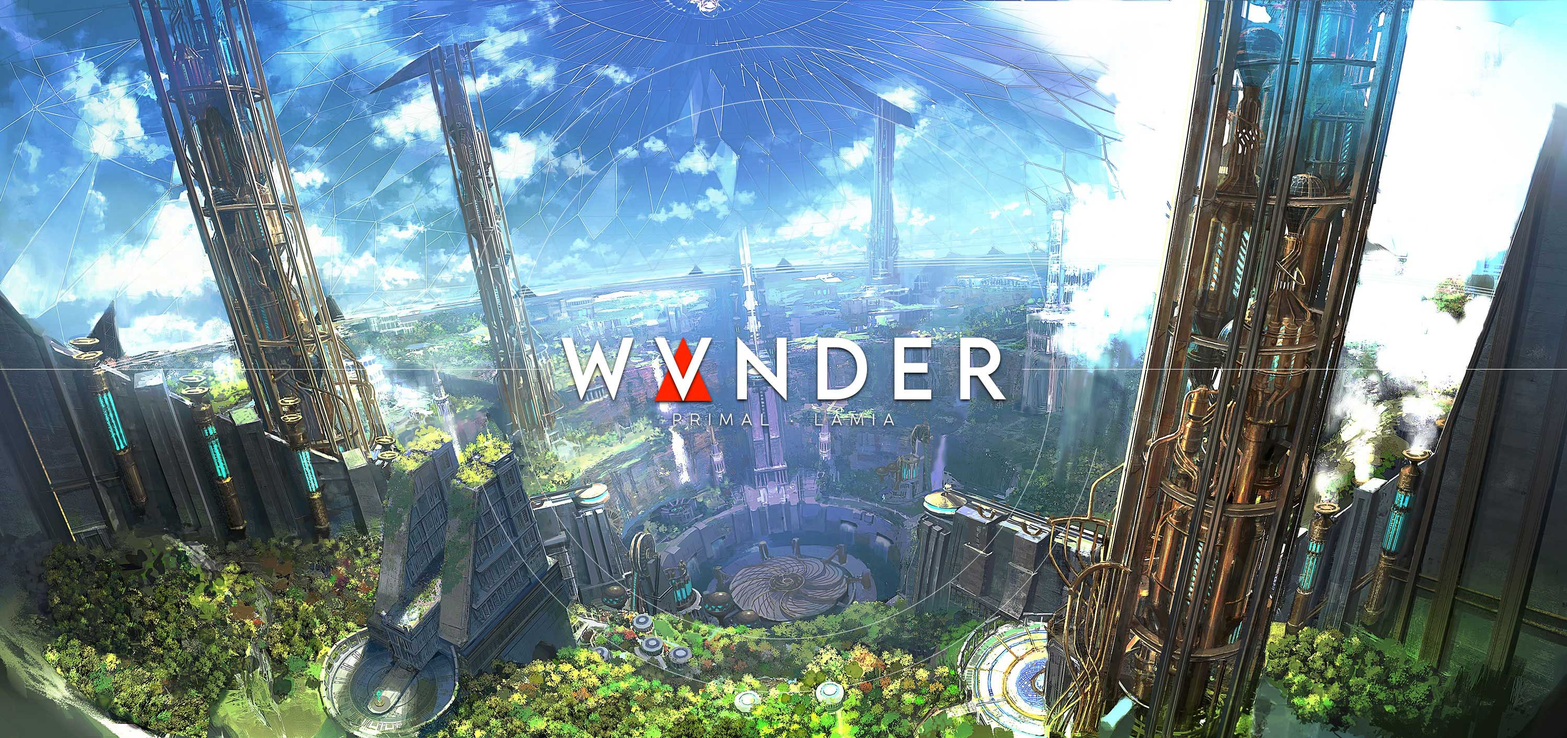
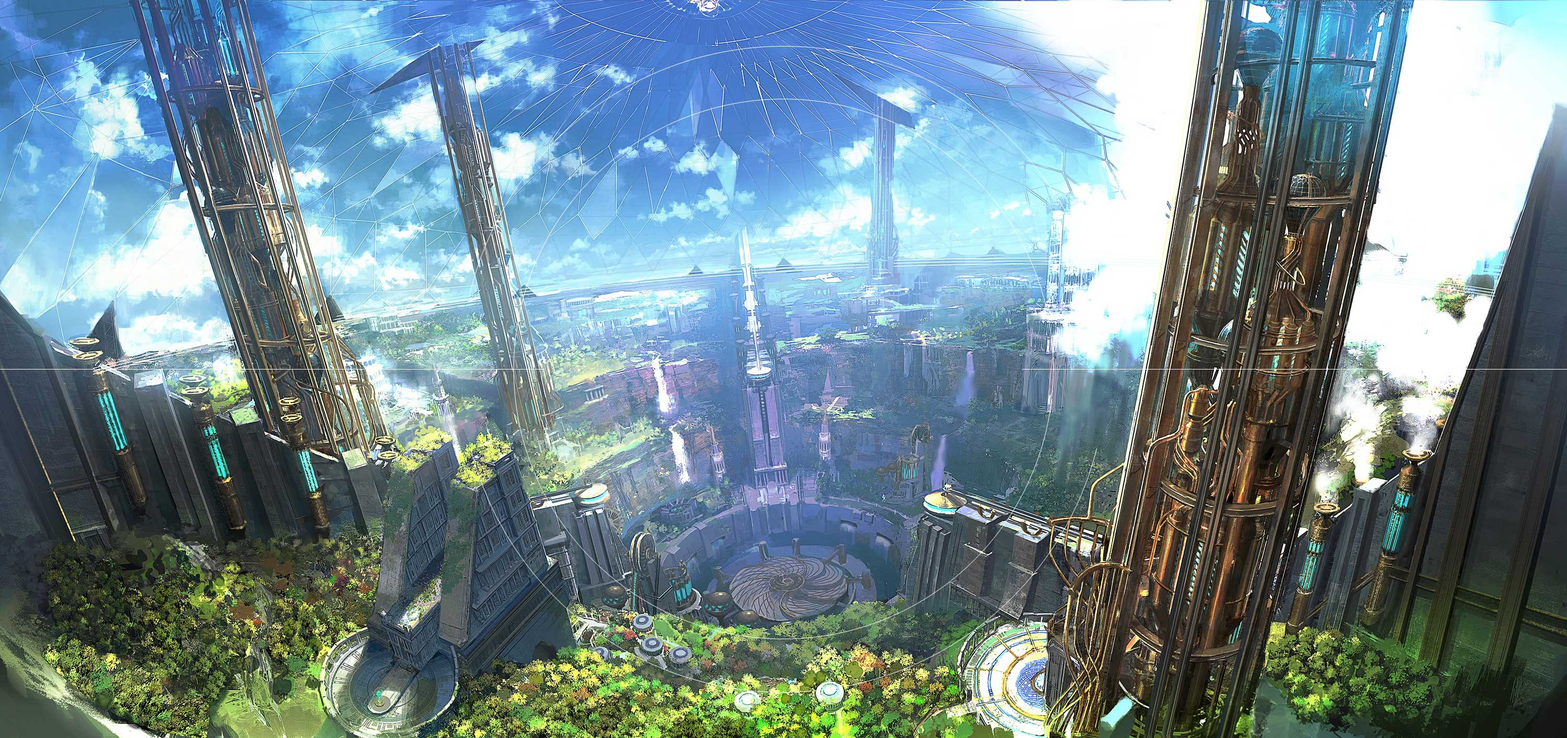
branding and nav
image  aligned for branding/address and new nav menu added

Changed region(s): [[0.341, 0.4363, 0.651, 0.5921]]

diff --git a/public/css/style.css b/public/css/style.css
@@ -17,6 +17,25 @@ canvas {
     background-color: #b61924;
     background-image: url("../img/background.jpg");
     background-repeat: no-repeat;
-    background-size: cover;
+    background-size: auto 100%;
     background-position: 50% 50%;
+    z-index: -1 !important;
+}
+
+/* ---- custom css ---- */
+.bg-wvndr {
+    background-color: rgba(32, 32, 32, 0.3);
+    border-bottom: 1px solid rgba(32, 32, 32, 0.5);
+    z-index: 1;
+}
+
+.branding {
+    text-align: center;
+    margin: 45vh auto;
+
+}
+
+.nav-item {
+    margin-left: 15px;
+    margin-right: 15px;
 }

diff --git a/app/views/_layouts/default.php b/app/views/_layouts/default.php
@@ -15,10 +15,40 @@
 </head>
 
 <body>
-    <div id="particles-js"></div>
+    <nav class="navbar navbar-expand-md navbar-dark fixed-top bg-wvndr">
+        <!-- <a class="navbar-brand" href="/">WVNDR</a> -->
+        <button class="navbar-toggler" type="button" data-toggle="collapse" data-target="#navbarsExampleDefault" aria-controls="navbarsExampleDefault" aria-expanded="false" aria-label="Toggle navigation">
+            <span class="navbar-toggler-icon"></span>
+        </button>
+
+        <div class="collapse navbar-collapse" id="navbarsExampleDefault">
+            <ul class="navbar-nav mr-auto ml-auto">
+                <li class="nav-item active">
+                    <a class="nav-link" href="/">H O M E<span class="sr-only">(current)</span></a>
+                </li>
+                <li class="nav-item">
+                    <a class="nav-link" href="/about">A B O U T</a>
+                </li>
+                <li class="nav-item">
+                    <a class="nav-link" href="/menu">M E N U</a>
+                </li>
+                <li class="nav-item">
+                    <a class="nav-link" href="/gallery">G A L L E R Y</a>
+                </li>
+            </ul>
+        </div>
+    </nav>
+
+    <div id="particles-js">
+        <div class="branding">
+            <img src="/public/img/logo.png" alt="WVNDER logo"><br>
+            <img src="/public/img/address.png" alt="address">
+        </div>
+    </div>
 
     <script src="/public/js/particles.js"></script>
     <script src="/public/js/app.js?<?=uniqid()?>"></script>
+
 </body>
 
 </html>
